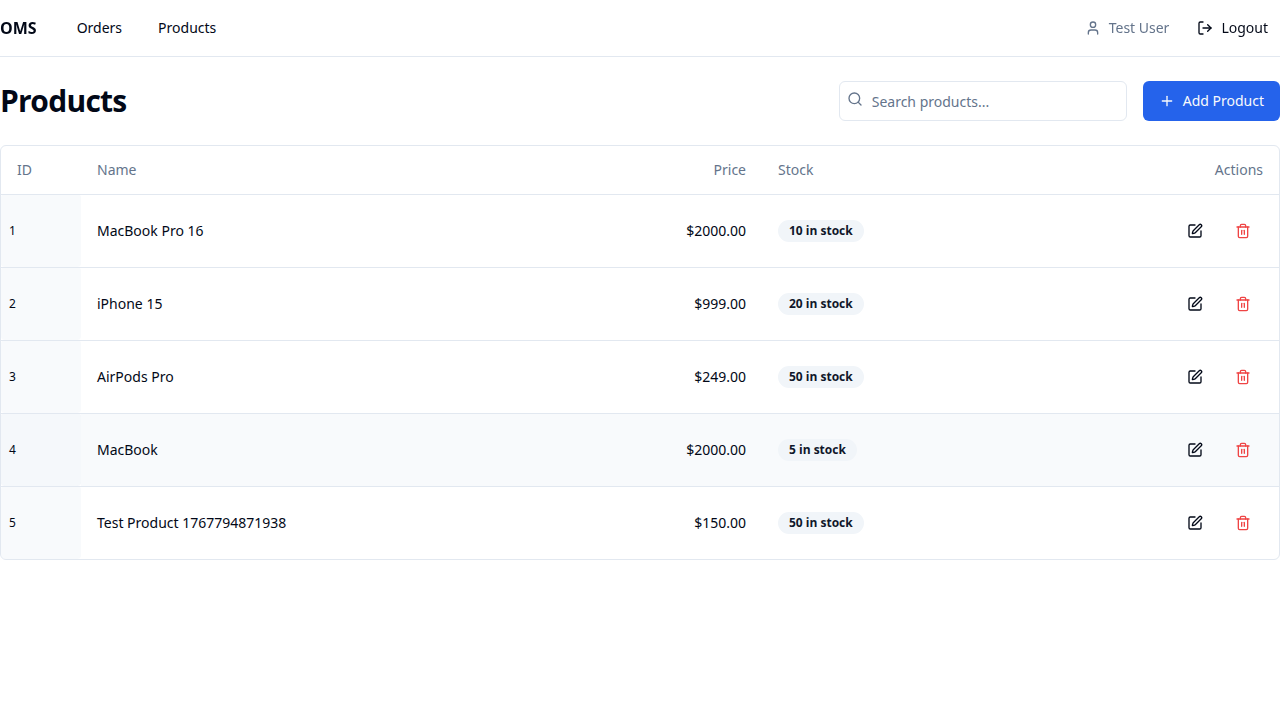
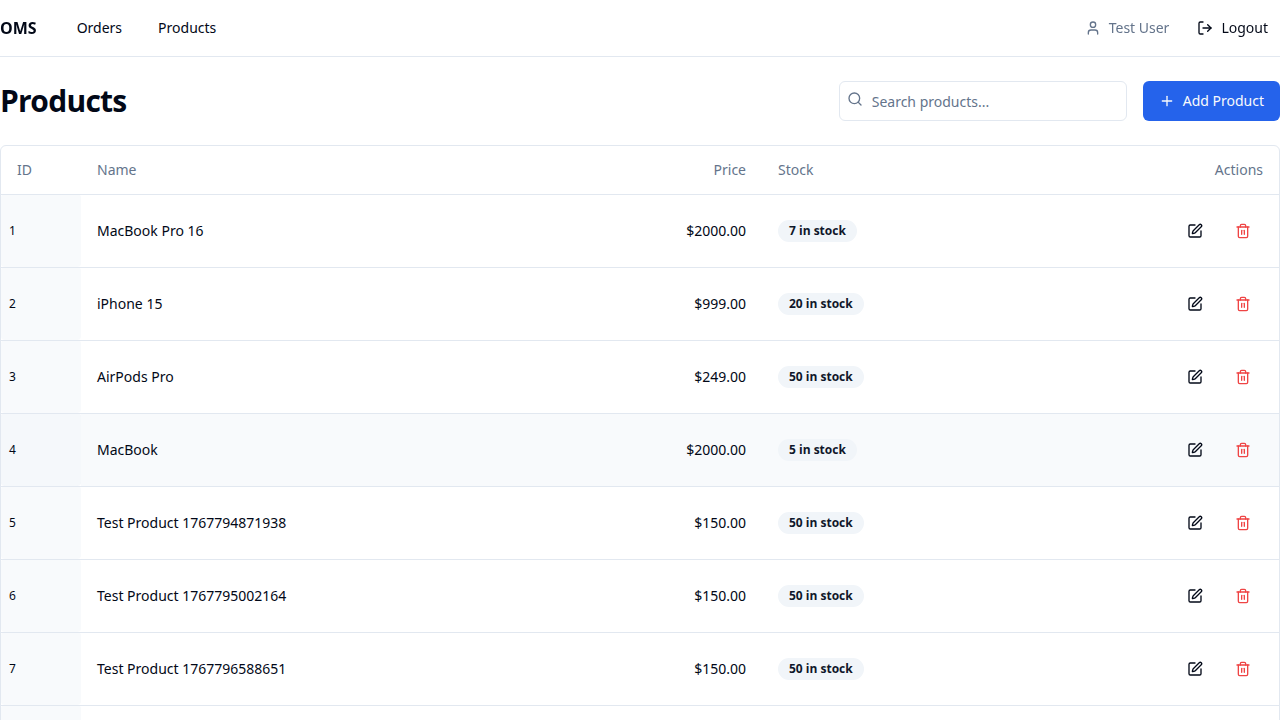
fix: Resolve logout crash and UI errors, add E2E tests

diff --git a/playwright-report/index.html b/playwright-report/index.html
@@ -82,4 +82,4 @@ Error generating stack: `+n.message+`
     <div id='root'></div>
   </body>
 </html>
[2 lines of base64/hex data omitted]

diff --git a/tests/e2e/orders.spec.js b/tests/e2e/orders.spec.js
@@ -106,3 +106,80 @@ test('Order Flow: Create and View Order', async ({ page }) => {
     // Verify it decreased by 1 (default quantity added was 1)
     expect(newStock).toBe(initialStock - 1);
 });
+
+test('Order Flow: Insufficient Stock Error', async ({ page }) => {
+    // 1. Login first to establish session for API calls
+    await page.goto('/login');
+    await page.fill('input[type="email"]', 'test@example.com');
+    await page.fill('input[type="password"]', 'password');
+    await page.click('button:has-text("Sign In")');
+    await expect(page).toHaveURL(/\/$/);
+
+    // 2. Create a product with stock 1 via API (using page.evaluate to run inside browser context)
+    const product = await page.evaluate(async () => {
+        // Need to manually fetch CSRF token from cookie for native fetch, 
+        // OR rely on Axios if it's available globally (it isn't usually exposed).
+        // Let's use fetch.
+        const getCookie = (name) => document.cookie.match('(^|;)\\s*' + name + '\\s*=\\s*([^;]+)')?.pop() || '';
+        const xsrfToken = decodeURIComponent(getCookie('XSRF-TOKEN'));
+
+        const response = await fetch('/api/products', {
+            method: 'POST',
+            headers: {
+                'Content-Type': 'application/json',
+                'Accept': 'application/json',
+                'X-XSRF-TOKEN': xsrfToken
+            },
+            body: JSON.stringify({
+                name: 'Low Stock Item',
+                price: 100,
+                stock_quantity: 1
+            })
+        });
+        if (!response.ok) throw new Error('Failed to create product via API: ' + response.status);
+        return await response.json();
+    });
+
+    // 3. Create an order via UI
+    await page.click('text=Products');
+    await page.click('text=Create Order');
+
+    // Select product
+    await page.click('[role="combobox"]');
+    await page.locator('[role="option"]', { hasText: 'Low Stock Item' }).first().click();
+    await page.click('button:has-text("Add to Order")');
+    await page.click('button:has-text("Place Order")');
+    await expect(page).toHaveURL(/\/orders$/);
+
+    // 4. SIMULATE RACE CONDITION: Update stock to 0 via API (page.evaluate)
+    await page.evaluate(async (productId) => {
+        const getCookie = (name) => document.cookie.match('(^|;)\\s*' + name + '\\s*=\\s*([^;]+)')?.pop() || '';
+        const xsrfToken = decodeURIComponent(getCookie('XSRF-TOKEN'));
+
+        const response = await fetch(`/api/products/${productId}`, {
+            method: 'PUT',
+            headers: {
+                'Content-Type': 'application/json',
+                'Accept': 'application/json',
+                'X-XSRF-TOKEN': xsrfToken
+            },
+            body: JSON.stringify({
+                name: 'Low Stock Item',
+                price: 100,
+                stock_quantity: 0
+            })
+        });
+        if (!response.ok) throw new Error('Failed to update product via API: ' + response.status);
+    }, product.id);
+
+    // 5. Go to Order Details and Try to Confirm
+    const firstOrderRow = page.locator('tbody tr').first();
+    await firstOrderRow.locator('a[href*="/orders/"]').click();
+
+    page.on('dialog', dialog => dialog.accept());
+    await page.click('button:has-text("Confirm Order")');
+
+    // 6. Assert Error Toast appears
+    await expect(page.locator('li[data-type="error"]')).toContainText("Not enough stock");
+    await expect(page.locator('li[data-type="error"]')).toContainText("Low Stock Item");
+});

diff --git a/resources/js/components/Orders/OrderDetails.jsx b/resources/js/components/Orders/OrderDetails.jsx
@@ -93,8 +93,11 @@ const OrderDetails = () => {
             toast.success('Order confirmed! Stock has been deducted.');
             await fetchOrder(); // Refresh to see new status
         } catch (err) {
-            console.error(err);
-            toast.error('Failed to confirm order: ' + (err.response?.data?.message || err.message));
+            if (err.response?.data?.errors?.stock) {
+                toast.error(err.response.data.errors.stock[0]);
+            } else {
+                toast.error('Failed to confirm order: ' + (err.response?.data?.message || err.message));
+            }
         }
     };
 
@@ -106,7 +109,6 @@ const OrderDetails = () => {
             toast.success('Order cancelled.');
             await fetchOrder(); // Refresh to see new status
         } catch (err) {
-            console.error(err);
             toast.error('Failed to cancel order: ' + (err.response?.data?.message || err.message));
         }
     };

diff --git a/resources/js/contexts/AuthContext.jsx b/resources/js/contexts/AuthContext.jsx
@@ -45,8 +45,15 @@ export function AuthProvider({ children }) {
     };
 
     const logout = async () => {
-        await axios.post('/logout');
-        setUser(null);
+        try {
+            await axios.post('/logout');
+            console.log('Logout API success');
+        } catch (e) {
+            console.error('Logout API failed', e);
+        } finally {
+            setUser(null);
+            console.log('User set to null');
+        }
     };
 
     const value = {

diff --git a/tests/Feature/OrderStockTest.php b/tests/Feature/OrderStockTest.php
@@ -28,8 +28,8 @@ class OrderStockTest extends TestCase
         // Create an order with 3 items
         $orderResponse = $this->actingAs($this->user)->postJson('/api/orders', [
             'items' => [
-                ['product_id' => $product->id, 'quantity' => 3]
-            ]
+                ['product_id' => $product->id, 'quantity' => 3],
+            ],
         ]);
 
         $orderResponse->assertStatus(201);
@@ -38,7 +38,7 @@ class OrderStockTest extends TestCase
         // Assert stock unchanged after creation (still pending)
         $this->assertDatabaseHas('products', [
             'id' => $product->id,
-            'stock_quantity' => 10
+            'stock_quantity' => 10,
         ]);
 
         // Act: Confirm the order
@@ -48,7 +48,7 @@ class OrderStockTest extends TestCase
         // Assert: Stock decreased by 3
         $this->assertDatabaseHas('products', [
             'id' => $product->id,
-            'stock_quantity' => 7
+            'stock_quantity' => 7,
         ]);
     }
 
@@ -60,8 +60,8 @@ class OrderStockTest extends TestCase
         // Create an order requesting 5 items (more than available)
         $orderResponse = $this->actingAs($this->user)->postJson('/api/orders', [
             'items' => [
-                ['product_id' => $product->id, 'quantity' => 5]
-            ]
+                ['product_id' => $product->id, 'quantity' => 5],
+            ],
         ]);
 
         // Should fail at creation time
@@ -75,8 +75,8 @@ class OrderStockTest extends TestCase
 
         $orderResponse = $this->actingAs($this->user)->postJson('/api/orders', [
             'items' => [
-                ['product_id' => $product->id, 'quantity' => 1]
-            ]
+                ['product_id' => $product->id, 'quantity' => 1],
+            ],
         ]);
 
         $orderId = $orderResponse->json('id');
@@ -84,7 +84,7 @@ class OrderStockTest extends TestCase
         // Assert initial status is pending
         $this->assertDatabaseHas('orders', [
             'id' => $orderId,
-            'status' => \App\Enums\OrderStatus::Pending
+            'status' => \App\Enums\OrderStatus::Pending,
         ]);
 
         // Act: Confirm
@@ -93,7 +93,7 @@ class OrderStockTest extends TestCase
         // Assert: Status changed to confirmed
         $this->assertDatabaseHas('orders', [
             'id' => $orderId,
-            'status' => \App\Enums\OrderStatus::Confirmed
+            'status' => \App\Enums\OrderStatus::Confirmed,
         ]);
     }
 
@@ -104,8 +104,8 @@ class OrderStockTest extends TestCase
 
         $orderResponse = $this->actingAs($this->user)->postJson('/api/orders', [
             'items' => [
-                ['product_id' => $product->id, 'quantity' => 1]
-            ]
+                ['product_id' => $product->id, 'quantity' => 1],
+            ],
         ]);
 
         $orderId = $orderResponse->json('id');
@@ -119,7 +119,7 @@ class OrderStockTest extends TestCase
         // Stock should only be decremented once
         $this->assertDatabaseHas('products', [
             'id' => $product->id,
-            'stock_quantity' => 9
+            'stock_quantity' => 9,
         ]);
     }
 }

diff --git a/app/Http/Controllers/Api/OrderController.php b/app/Http/Controllers/Api/OrderController.php
@@ -37,16 +37,16 @@ class OrderController extends Controller
 
             foreach ($request->items as $item) {
                 $product = $products->get($item['product_id']);
-                
-                if (!$product) {
+
+                if (! $product) {
                     throw \Illuminate\Validation\ValidationException::withMessages([
-                        'items' => ["Product ID {$item['product_id']} not found."]
+                        'items' => ["Product ID {$item['product_id']} not found."],
                     ]);
                 }
 
                 if ($item['quantity'] > $product->stock_quantity) {
                     throw \Illuminate\Validation\ValidationException::withMessages([
-                        'items' => ["Not enough stock for product '{$product->name}'. Requested: {$item['quantity']}, Available: {$product->stock_quantity}"]
+                        'items' => ["Not enough stock for product '{$product->name}'. Requested: {$item['quantity']}, Available: {$product->stock_quantity}"],
                     ]);
                 }
 
@@ -98,7 +98,7 @@ class OrderController extends Controller
 
                 if ($item->quantity > $product->stock_quantity) {
                     throw \Illuminate\Validation\ValidationException::withMessages([
-                        'stock' => ["Not enough stock for product '{$product->name}' at confirmation. Requested: {$item->quantity}, Available: {$product->stock_quantity}"]
+                        'stock' => ["Not enough stock for product '{$product->name}' at confirmation. Requested: {$item->quantity}, Available: {$product->stock_quantity}"],
                     ]);
                 }
 

diff --git a/app/Http/Controllers/Api/AuthController.php b/app/Http/Controllers/Api/AuthController.php
@@ -47,8 +47,17 @@ class AuthController extends Controller
      */
     public function logout(Request $request): JsonResponse
     {
-        // Revoke the token that was used to authenticate the current request
-        $request->user()->currentAccessToken()->delete();
+        $accessToken = $request->user()->currentAccessToken();
+
+        // Revoke the token if it's a real API token (not a session/transient one)
+        if ($accessToken && !($accessToken instanceof \Laravel\Sanctum\TransientToken)) {
+            $accessToken->delete();
+        }
+
+        // Invalidate session (SPA)
+        Auth::guard('web')->logout();
+        $request->session()->invalidate();
+        $request->session()->regenerateToken();
 
         return response()->json(['message' => 'Logged out successfully']);
     }

diff --git a/app/Http/Controllers/Api/ProductController.php b/app/Http/Controllers/Api/ProductController.php
@@ -45,11 +45,12 @@ class ProductController extends Controller
     {
         try {
             $product->delete();
+
             return response()->json(null, 204);
         } catch (\Illuminate\Database\QueryException $e) {
             if ($e->getCode() === '23503') {
                 return response()->json([
-                    'message' => 'Cannot delete product because it is associated with existing orders.'
+                    'message' => 'Cannot delete product because it is associated with existing orders.',
                 ], 409);
             }
             throw $e;

diff --git a/routes/api.php b/routes/api.php
@@ -1,10 +1,9 @@
 <?php
 
-use Illuminate\Http\Request;
-use Illuminate\Support\Facades\Route;
-use App\Http\Controllers\Api\ProductController;
-use App\Http\Controllers\Api\OrderController;
 use App\Http\Controllers\Api\AuthController;
+use App\Http\Controllers\Api\OrderController;
+use App\Http\Controllers\Api\ProductController;
+use Illuminate\Support\Facades\Route;
 
 // Authentication routes (public)
 Route::post('/login', [AuthController::class, 'login']);

diff --git a/database/seeders/ProductSeeder.php b/database/seeders/ProductSeeder.php
@@ -26,7 +26,7 @@ class ProductSeeder extends Seeder
             'price' => 249.00,
             'stock_quantity' => 50,
         ]);
-        
+
         // Exact match for the test if it looks for "MacBook" specifically
         Product::create([
             'name' => 'MacBook',

diff --git a/app/Enums/OrderStatus.php b/app/Enums/OrderStatus.php
@@ -11,7 +11,7 @@ enum OrderStatus: string
 
     public function label(): string
     {
-        return match($this) {
+        return match ($this) {
             self::Pending => 'Pending',
             self::Confirmed => 'Confirmed',
             self::Cancelled => 'Cancelled',

diff --git a/app/Models/Product.php b/app/Models/Product.php
@@ -23,7 +23,7 @@ class Product extends Model
 
     public function scopeSearch($query, $search)
     {
-        return $query->where('name', 'ilike', '%' . $search . '%');
+        return $query->where('name', 'ilike', '%'.$search.'%');
     }
 
     public function orderItems()
